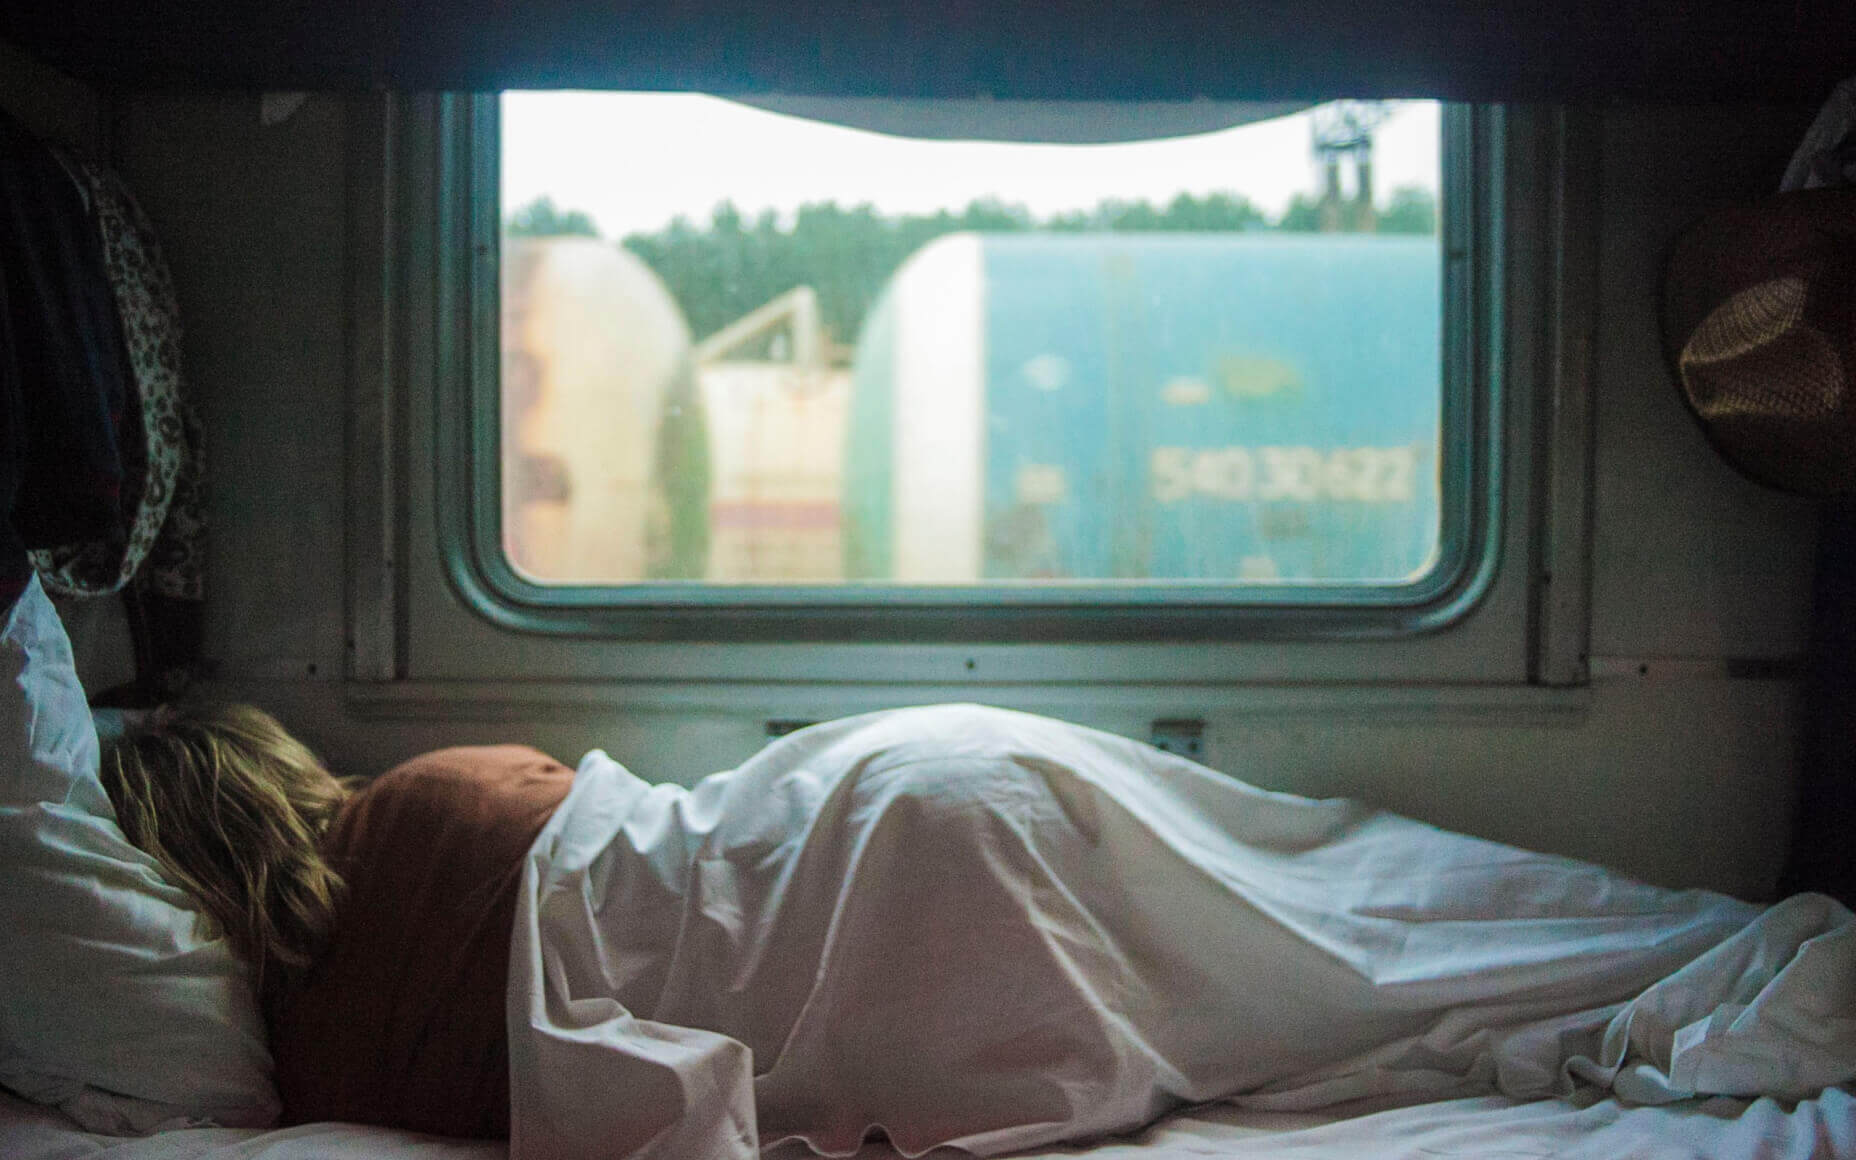
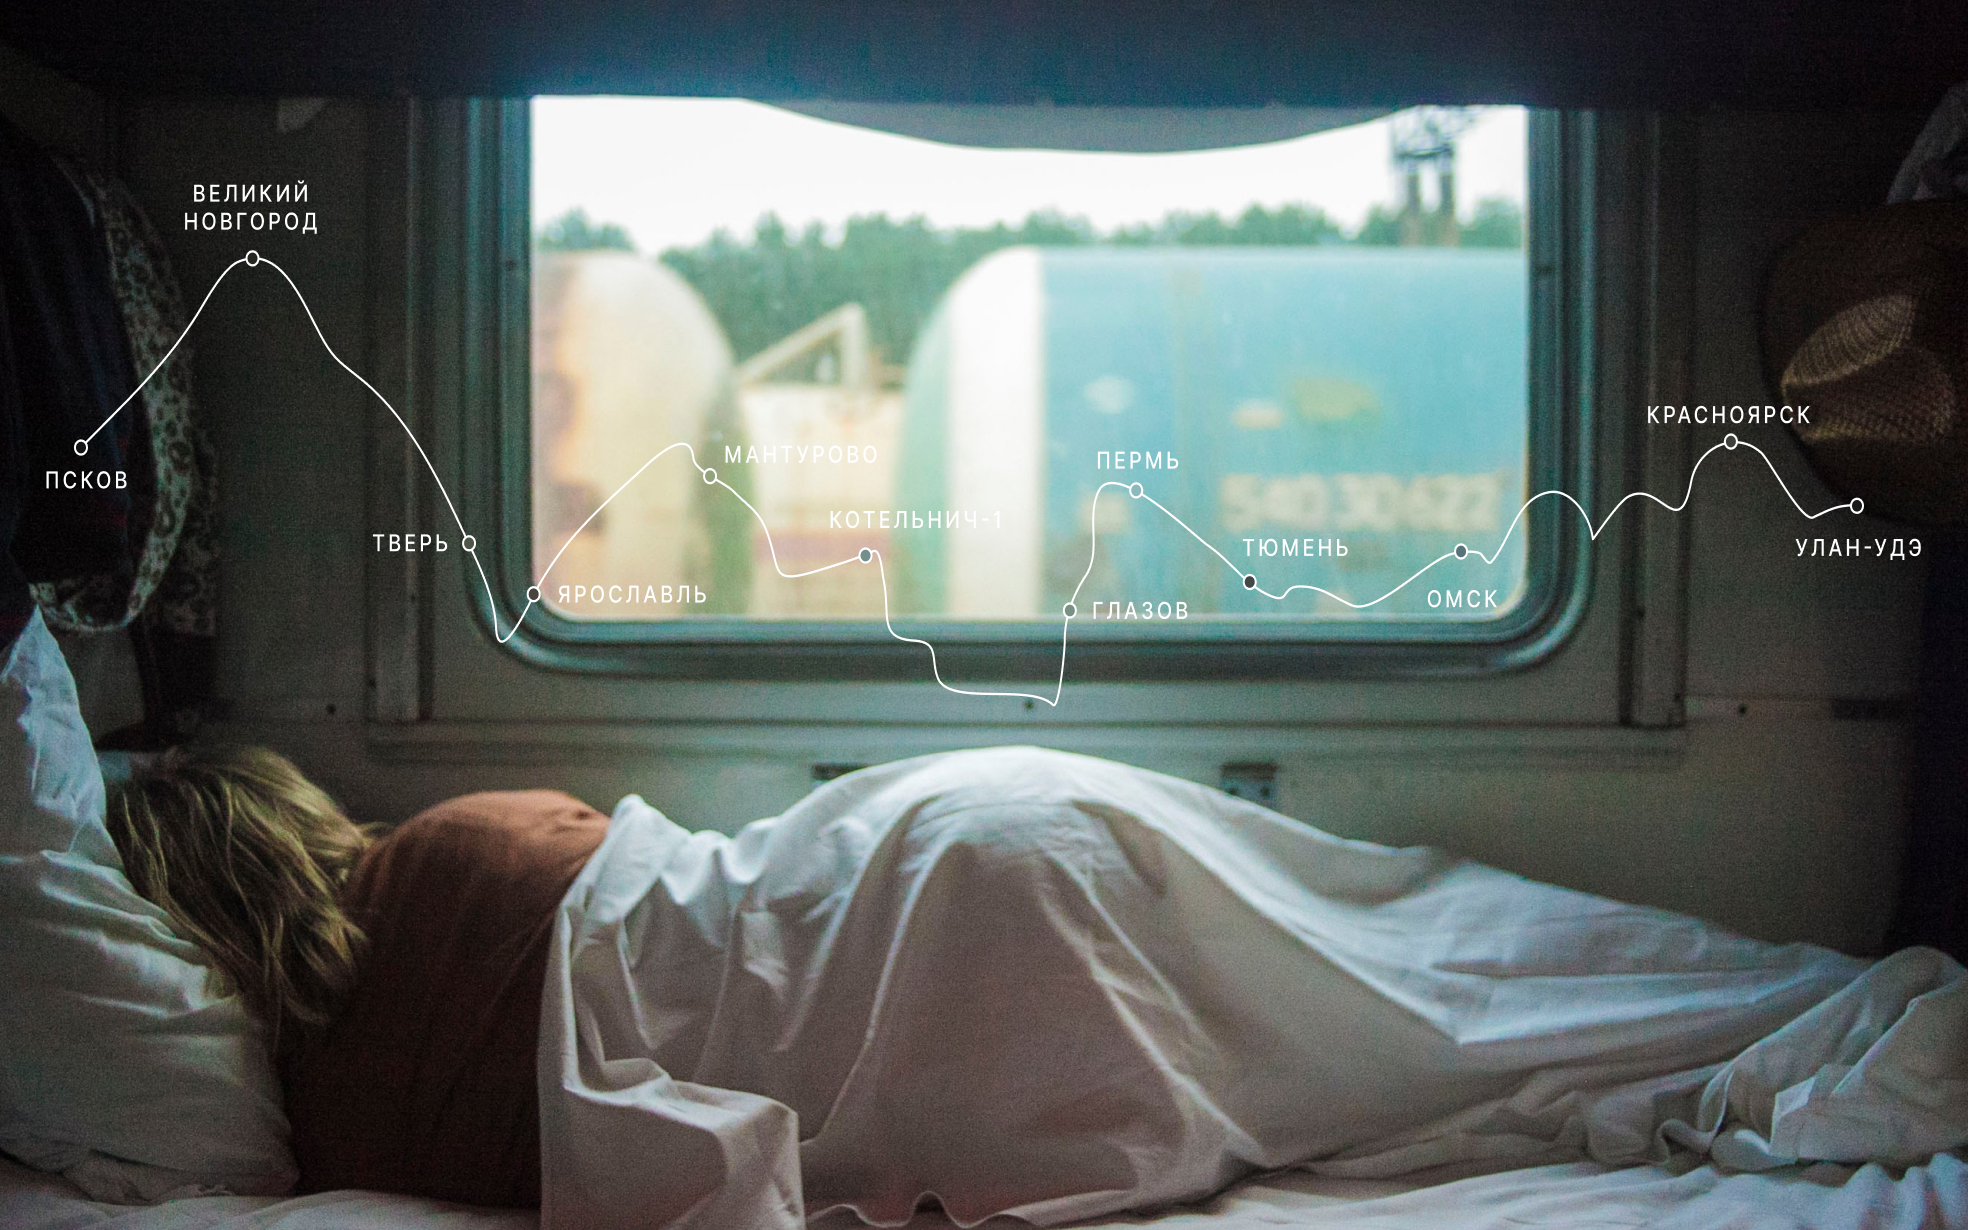
Fixed flexing resolution for footer and lead blocks

diff --git a/blocks/lead/__img-label/lead__img-label.css b/blocks/lead/__img-label/lead__img-label.css
@@ -1,8 +1,51 @@
 .lead__img-label {
-  margin: 8px 0 0;
+  margin: 8px auto 0;
+  width: 984px;
   text-transform: uppercase;
   font-weight: 400;
   font-size: 10px;
   line-height: 1.4;
   letter-spacing: 1.5px;
+}
+
+@media screen and (min-width: 1024px) and (max-width: 1279px) {
+  .lead__img-label {
+    min-width: 928px;
+    width: 90%;
+    max-width: 984px;
+  }
+}
+
+@media screen and (min-width: 793px) and (max-width: 1023px) {
+  .lead__img-label {
+    min-width: 768px;
+    width: 100%;
+    max-width: 928px;
+  }
+}
+
+@media screen and (min-width: 768px) and (max-width: 792px) {
+  .lead__img-label {
+    padding: 0 0 0 24px;
+    min-width: 768px;
+    width: 100%;
+    max-width: 928px;
+  }
+}
+
+@media screen and (min-width: 337px) and (max-width: 767px) {
+  .lead__img-label {
+    min-width: 320px;
+    width: 100%;
+    max-width: 768px;
+  }
+}
+
+@media screen and (max-width: 336px) {
+  .lead__img-label {
+    padding: 0 0 0 16px;
+    min-width: 320px;
+    width: 100%;
+    max-width: 768px;
+  }
 }

diff --git a/index.html b/index.html
@@ -22,11 +22,9 @@
 
     <main class="content">
       <section class="lead">
-        <h1 class="lead__title">Путешествия по России</h1>
-        <p class="lead__subtitle">Настоящая страна не в выпусках новостей, а здесь.</p>
-        <div class="lead__images">
-          <img class="lead__image" src="./images/travel_map.svg" alt="Ключевые точки маршрута">
-        </div>
+        <h1 class="lead__title">Путешествия по&nbsp;России</h1>
+        <p class="lead__subtitle">Настоящая страна не в выпусках новостей, а&nbsp;здесь.</p>
+        <img class="lead__image" src="./images/side_shelf.jpeg" alt="Ключевые точки маршрута">
         <p class="lead__img-label">ваша полка — верхняя</p>
       </section>
 

diff --git a/blocks/lead/__image/lead__image.css b/blocks/lead/__image/lead__image.css
@@ -1,29 +1,32 @@
 .lead__image {
-  margin: 90px auto 0;
-  width: 940px;
-  height: 265px;
+  margin: 64px auto 0;
+  width: 984px;
+
 }
 
 @media screen and (min-width: 1024px) and (max-width: 1279px) {
   .lead__image {
-    margin: 85px auto 0;
-    width: 885px;
-    height: 248px;
+    margin: 56px auto 0;
+    min-width: 928px;
+    width: 90%;
+    max-width: 984px;
   }
 }
 
 @media screen and (min-width: 768px) and (max-width: 1023px) {
   .lead__image {
-    margin: 70px auto 0;
-    width: 731px;
-    height: 205px;
+    margin: 56px auto 0;
+    min-width: 768px;
+    width: 100%;
+    max-width: 928px;
   }
 }
 
 @media screen and (max-width: 767px) {
   .lead__image {
-    margin: 29px auto 0;
-    width: 304px;
-    height: 85px;
+    margin: 40px auto 0;
+    min-width: 320px;
+    width: 100%;
+    max-width: 768px;
   }
 }

diff --git a/blocks/lead/lead.css b/blocks/lead/lead.css
@@ -2,25 +2,33 @@
   margin: 0 auto;
   padding: 56px 0 0;
   width: 984px;
+  display: flex;
+  flex-direction: column;
 }
 
 @media screen and (min-width: 1024px) and (max-width: 1279px) {
   .lead {
     padding: 48px 0 0;
-    width: 928px;
+    min-width: 928px;
+    width: 90%;
+    max-width: 1184px;
   }
 }
 
 @media screen and (min-width: 768px) and (max-width: 1023px) {
   .lead {
     padding: 48px 0 0;
-    width: 768px;
+    min-width: 768px;
+    width: 93%;
+    max-width: 928px;
   }
 }
 
 @media screen and (max-width: 767px) {
   .lead {
     padding: 48px 0 0;
-    width: 320px;
+    min-width: 288px;
+    width: 90%;
+    max-width: 720px;
   }
 }

diff --git a/blocks/header/header.css b/blocks/header/header.css
@@ -9,20 +9,25 @@
 
 @media screen and (min-width: 1024px) and (max-width: 1279px) {
   .header {
-    width: 928px;
+    min-width: 928px;
+    width: 90%;
+    max-width: 1184px;
   }
 }
 
 @media screen and (min-width: 768px) and (max-width: 1023px) {
   .header {
-    width: 720px;
+   min-width: 720px;
+   width: 93%;
+   max-width: 928px;
   }
 }
 
 @media screen and (max-width: 767px) {
   .header {
     min-width: 288px;
-    max-width: 90%;
+    width: 90%;
+    max-width: 720px;
     padding: 16px 16px 0;
   }
 }

diff --git a/blocks/lead/__title/lead__title.css b/blocks/lead/__title/lead__title.css
@@ -10,7 +10,8 @@
 @media screen and (max-width: 767px) {
   .lead__title {
     min-width: 288px;
-    max-width: 90%;
+    width: 90%;
+    max-width: 720px;
     font-size: 40px;
     line-height: 1.1;
   }

diff --git a/blocks/lead/__subtitle/lead__subtitle.css b/blocks/lead/__subtitle/lead__subtitle.css
@@ -11,7 +11,8 @@
   .lead__subtitle {
     margin: 16px auto 0;
     min-width: 288px;
-    max-width: 90%;
+    width: 90%;
+    max-width: 640px;
     font-size: 16px;
     line-height: 1.25;
   }
